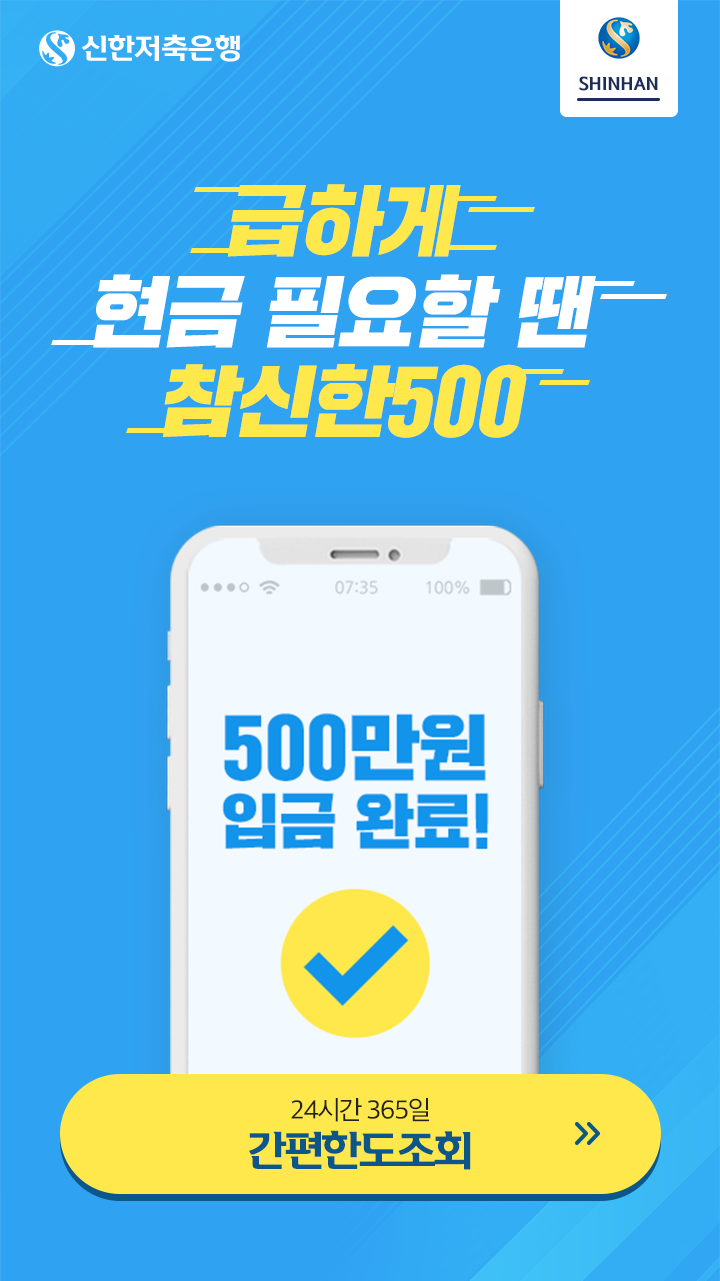
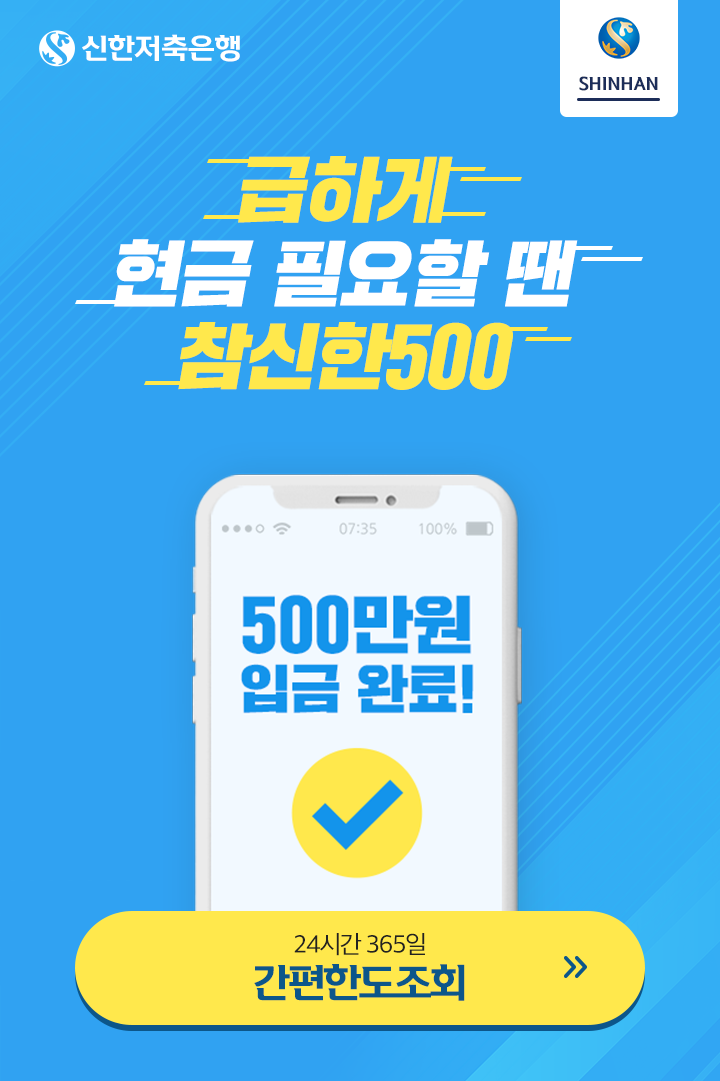
500수정

diff --git a/shinhan_500/css/style.css b/shinhan_500/css/style.css
@@ -1,166 +1,52 @@
-html {
-  font-size: 10px;
-}
+html { font-size: 10px; }
 
-.wrapper {
-  margin: 0 auto;
-  max-width: 768px;
-  overflow: hidden;
-}
+.wrapper { margin: 0 auto; max-width: 768px; overflow: hidden; }
 
-.section01 {
-  position: relative;
-}
+.section01 { position: relative; }
 
-.section01 a {
-  position: absolute;
-  left: 8%;
-  bottom: 6%;
-  width: 84%;
-  height: 10%;
-}
+.section01 a { position: absolute; left: 8%; bottom: 5%; width: 84%; height: 11%; }
 
-.section02 {
-  padding: 8rem 6rem;
-  background-color: #fff;
-}
+.section02 { padding: 8rem 6rem; background-color: #fff; }
 
-.section02 .title {
-  margin-bottom: 5rem;
-  font-size: 3.8rem;
-  line-height: 4rem;
-  color: #222;
-  font-family: OneShinhanLight;
-}
+.section02 .title { margin-bottom: 5rem; font-size: 3.8rem; line-height: 4rem; color: #222; font-family: OneShinhanLight; }
 
-.section02 .title strong {
-  font-family: OneShinhanBold;
-  color: #0050b2;
-}
+.section02 .title strong { font-family: OneShinhanBold; color: #0050b2; }
 
-.section02 .desc {
-  position: relative;
-  padding-left: 20rem;
-}
+.section02 .desc { position: relative; padding-left: 20rem; }
 
-.section02 .desc strong {
-  display: inline-block;
-  position: absolute;
-  left: 0;
-  top: 0;
-  font-size: 2.8rem;
-  line-height: 3.6rem;
-  color: #222;
-  font-weight: bold;
-}
+.section02 .desc strong { display: inline-block; position: absolute; left: 0; top: 0; font-size: 2.8rem; line-height: 3.6rem; color: #222; font-weight: bold; }
 
-.section02 .desc p {
-  font-size: 2.8rem;
-  line-height: 3.6rem;
-  white-space: pre-line;
-  color: #444;
-}
+.section02 .desc p { font-size: 2.8rem; line-height: 3.6rem; white-space: pre-line; color: #444; }
 
-.section02 .desc + .desc {
-  margin-top: 3.8rem;
-}
+.section02 .desc + .desc { margin-top: 3.8rem; }
 
-.section02 .sub-text {
-  margin-top: 5rem;
-}
+.section02 .sub-text { margin-top: 5rem; }
 
-.section02 .sub-text p {
-  font-size: 2.3rem;
-  line-height: 3rem;
-  white-space: pre-line;
-  color: #444;
-}
+.section02 .sub-text p { font-size: 2.3rem; line-height: 3rem; white-space: pre-line; color: #444; }
 
-.section03 {
-  padding: 8rem 0 3rem 6rem;
-  background-color: #f0f0f0;
-}
+.section03 { padding: 8rem 0 3rem 6rem; background-color: #f0f0f0; }
 
-.section03 strong {
-  display: inline-block;
-  margin-bottom: 3.2rem;
-  font-size: 3rem;
-  color: #222;
-  font-weight: bold;
-}
+.section03 strong { display: inline-block; margin-bottom: 3.2rem; font-size: 3rem; color: #222; font-weight: bold; }
 
-.section03 p {
-  position: relative;
-  padding-left: 1rem;
-  font-size: 2.2rem;
-  line-height: 3rem;
-  white-space: pre-line;
-}
+.section03 p { position: relative; padding-left: 1rem; font-size: 2.2rem; line-height: 3rem; white-space: pre-line; }
 
-.section03 p::after {
-  display: block;
-  position: absolute;
-  left: 0;
-  top: 1.4rem;
-  content: "";
-  width: .3rem;
-  height: .3rem;
-  background-color: #333;
-  line-height: 3rem;
-}
+.section03 p::after { display: block; position: absolute; left: 0; top: 1.4rem; content: ""; width: .3rem; height: .3rem; background-color: #333; line-height: 3rem; }
 
-.section03 p + p {
-  margin-top: 3.4rem;
-}
+.section03 p + p { margin-top: 3.4rem; }
 
-.section03 p + strong {
-  margin-top: 6rem;
-}
+.section03 p + strong { margin-top: 6rem; }
 
-.section03 .num {
-  margin-top: 7rem;
-  font-size: 1.6rem;
-  line-height: 2.2rem;
-  color: #666;
-}
+.section03 .num { margin-top: 7rem; font-size: 1.6rem; line-height: 2.2rem; color: #666; }
 
-.footer {
-  padding: 6rem 0 5rem 6rem;
-  background-color: #222;
-}
+.footer { padding: 6rem 0 5rem 6rem; background-color: #222; }
 
-.footer p {
-  font-size: 2rem;
-  line-height: 3.3rem;
-  color: #999;
-  white-space: pre-line;
-}
+.footer p { font-size: 2rem; line-height: 3.3rem; color: #999; white-space: pre-line; }
 
-.footer strong {
-  display: inline-block;
-  margin-bottom: 2.6rem;
-  color: #999;
-  font-size: 3rem;
-  line-height: 3.2rem;
-  font-weight: bold;
-}
+.footer strong { display: inline-block; margin-bottom: 2.6rem; color: #999; font-size: 3rem; line-height: 3.2rem; font-weight: bold; }
 
-.footer .copy {
-  margin-top: 4.4rem;
-  font-size: 2rem;
-  line-height: 3.3rem;
-  color: #999;
-}
+.footer .copy { margin-top: 4.4rem; font-size: 2rem; line-height: 3.3rem; color: #999; }
 
-@media screen and (max-width: 768px) {
-  html {
-    font-size: 10px;
-  }
-}
+@media screen and (max-width: 768px) { html { font-size: 10px; } }
 
-@media screen and (max-width: 512px) {
-  html {
-    font-size: 5px;
-  }
-}
+@media screen and (max-width: 512px) { html { font-size: 5px; } }
 /*# sourceMappingURL=style.css.map */

diff --git a/shinhan_500/index.html b/shinhan_500/index.html
@@ -112,8 +112,8 @@
             분쟁이 발생한 경우에는 금융감독원(국번없이 1332) 등에 
             도움을 요청하실 수 있습니다.</p>
             <strong>총 대출 비용 예시</strong>
-            <p>1,000만 원 14.0%, 36개월 원리금 균등분할상환 시
-            총 상환금액은 약 12,299,263원 (납입일에 따라 변동 가능)</p>
+            <p>500만원 12.0% 36개월 원리금균등분할상환 시
+                총 상환금액은 약 5,980,708원 (납입일에 따라 변동 가능)</p>
             <div class="num">
                 저축은행중앙회 심의필 2021-00000(2021.00.00)<br>
                 준법감시인 심의필 리테일2021-00000 (2021.00.00)
@@ -125,7 +125,7 @@
                 금융사고신고 야간콜센터 : 02-3988-600/800
                 (주)신한저축은행 사업자등록번호 : 120-87-90239
                 서울특별시 중구 청계천로 54, 3층 (신한광교빌딩)</p>
-            <div class="copy">Copyright ⓒ 2020 Shinhansavings bank. All rights reserved.</div>
+            <div class="copy">Copyright ⓒ 2021 Shinhansavings bank. All rights reserved.</div>
         </div>
     </div>
 </body>

diff --git a/shinhan_500/css/style.scss b/shinhan_500/css/style.scss
@@ -15,9 +15,9 @@ html {
     a {
         position: absolute;
         left: 8%;
-        bottom: 6%;
+        bottom: 5%;
         width: 84%;
-        height: 10%;
+        height: 11%;
     }
 }
 .section02 {
